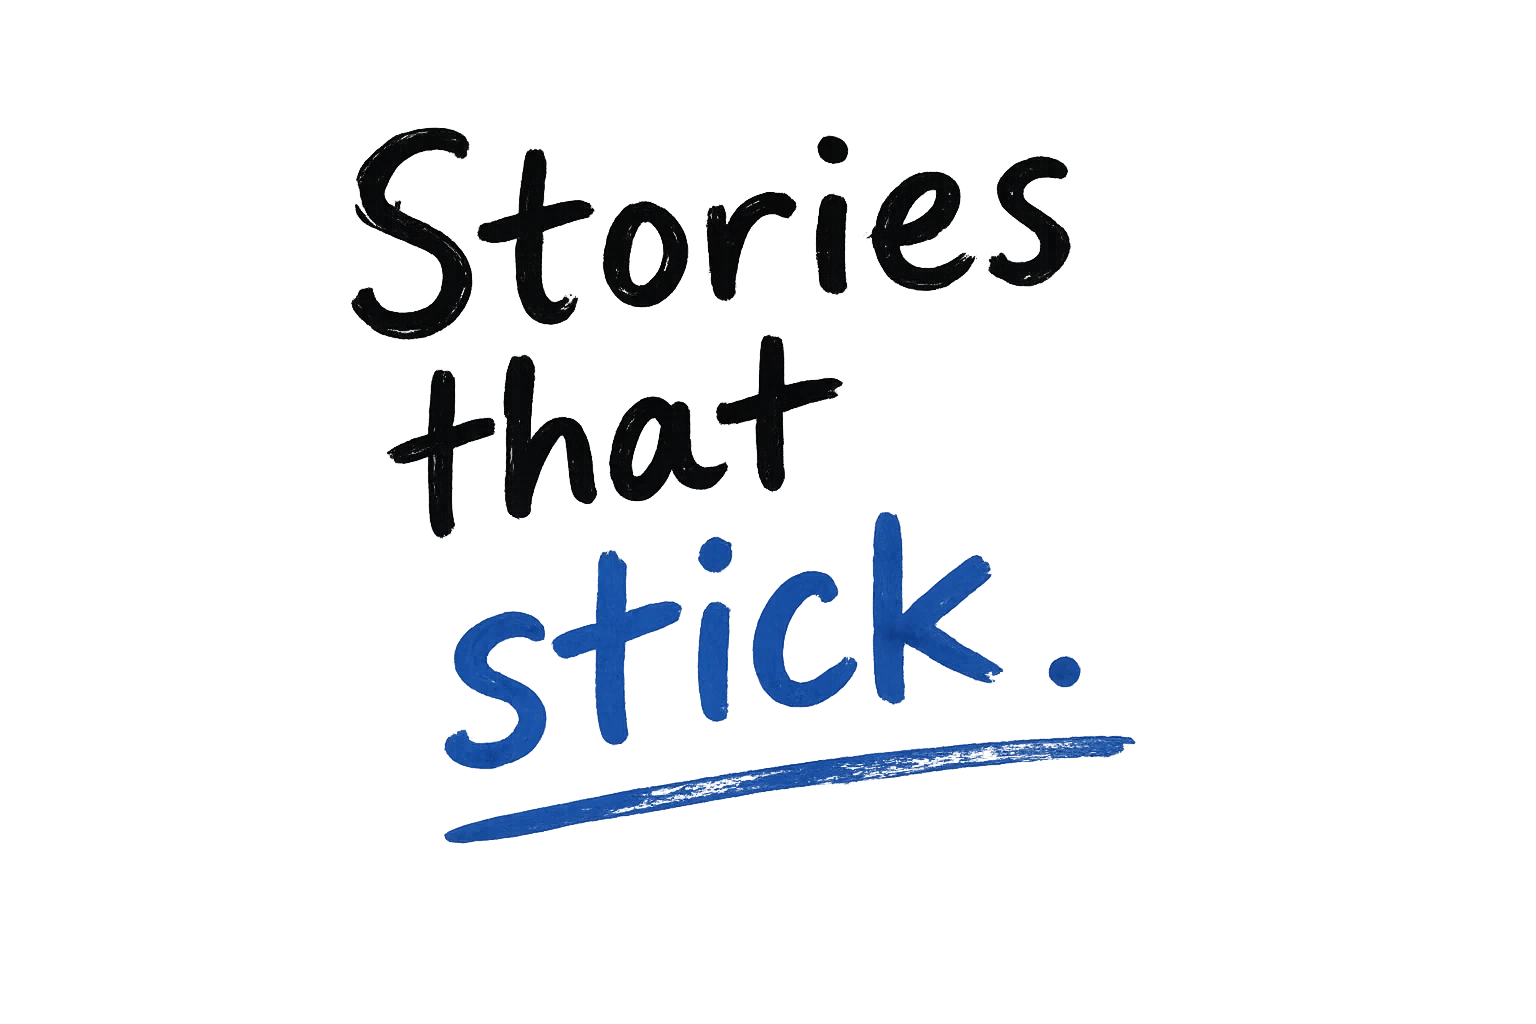
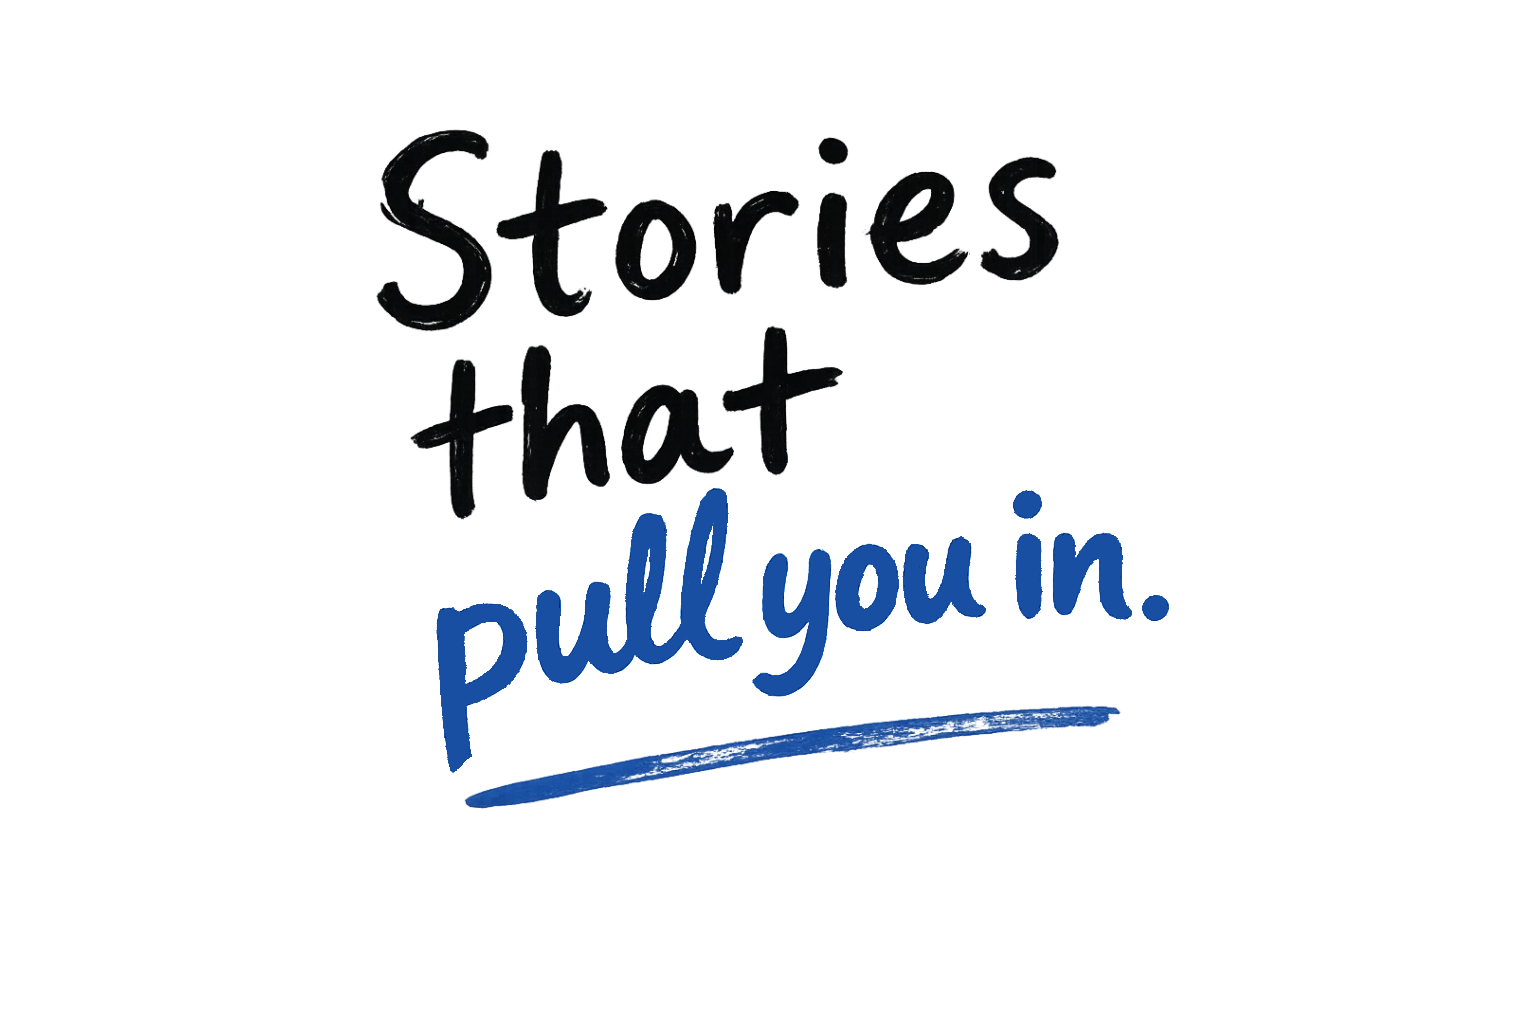
small improvements

Changed region(s): [[0.2188, 0.125, 0.7812, 0.8438], [0.5312, 0.1562, 0.7188, 0.2812]]

diff --git a/styles.css b/styles.css
@@ -18,7 +18,7 @@
 }
 *{box-sizing:border-box}
 html{scroll-behavior:smooth}
-html,body{margin:0;padding:0}
+html,body{margin:0;padding:0;overflow-x:clip}
 body{
   font-family:var(--font-body);
   background-color:var(--paper);
@@ -41,6 +41,7 @@ header{
   padding-bottom:var(--s3);
 }
 .logo{
+  display:block;
   font-family:var(--font-display);
   font-size:2.05rem;
   letter-spacing:.01em;
@@ -96,7 +97,7 @@ a:focus-visible,button:focus-visible{outline:2px solid #d6b252;outline-offset:4p
   transform:translateY(10px);
   transform-origin:left center;
 }
-.lead{max-width:60ch;color:var(--ink);margin-top:var(--s3);margin-left:115px;margin-right:40px;transform:rotate(-2deg);letter-spacing:1px}
+.lead{max-width:60ch;color:var(--ink);margin-top:var(--s3);margin-left:115px;margin-right:40px;transform:rotate(-2deg) translateY(-15px);letter-spacing:1px}
 .options{display:flex;flex-wrap:wrap;gap:25px;justify-content:center;transform:scale(.8)}
 .hero{margin-top:var(--s3)}
 .btn{display:inline-flex;align-items:center;justify-content:center;min-height:42px;padding:0 17px;border-radius:999px;border:1px solid var(--ink);font-size:.74rem;font-weight:600;text-transform:uppercase;letter-spacing:.08em;transition:transform .2s ease,border-color .2s ease,box-shadow .2s ease,color .2s ease,background-color .2s ease}
@@ -468,7 +469,7 @@ footer{margin-top:var(--s6);border-top:1px solid var(--line);padding-top:var(--s
   }
 }
 @media (max-width:700px){
-  .nav-toggle{display:flex}
+  .nav-toggle{display:flex;position:fixed;top:14px;right:22px;z-index:201;background:var(--paper);border-radius:4px;padding:4px}
   header{flex-wrap:wrap;align-items:center}
 
   nav[aria-label="Primary"]{
@@ -481,7 +482,14 @@ footer{margin-top:var(--s6);border-top:1px solid var(--line);padding-top:var(--s
   }
 
   nav[aria-label="Primary"].nav-open{
-  	display:flex
+  	display:flex;
+  	position:fixed;
+  	top:0;left:0;right:0;
+  	background:var(--paper);
+  	border-bottom:1px solid var(--line);
+  	padding:58px 22px 14px;
+  	z-index:200;
+  	box-shadow:0 4px 16px rgba(0,0,0,.08)
   }
 
   nav[aria-label="Primary"] a{

diff --git a/about.html b/about.html
@@ -26,7 +26,7 @@
 <body>
   <div class="wrap">
     <header>
-      <div class="logo">Raea Gragg</div>
+      <a class="logo" href="./index.html">Raea Gragg<small>Author / Illustrator / Artist</small></a>
       <nav aria-label="Primary">
         <a href="./index.html#nav=home" data-hue="0.0">Home</a>
         <a href="./books.html#nav=books" data-hue="0.15">Books</a>
@@ -44,9 +44,9 @@
 
         <div class="split">
           <article class="about-box">
-            <p>Hello, I’m Raea! I’m a multimedia fine artist who loves nothing more than sharing my nature-
-inspired creations. No matter the piece or project I always emphasis the power of storytelling in my work. I’d love to come visit your school or library to discuss all things books, chat about an art commission, or just nerd out over all things creative.</p>
-	    <p>You can follow me on Instagram and Tiktok at: @raeag and @raeagragg</p>
+            <p>Hello, I’m Raea! I’m an author, illustrator, and multimedia fine artist whose work is inspired by the thrill of nature, vivid worldbuilding, and emotionally driven coming-of-age stories.</p>
+            <p>As a reader, I’m drawn to fast-paced, immersive stories—the kind that grab you quickly and don’t let go. That same energy shapes my own work: cinematic, nature-rich, and full of emotional momentum. With a background in botany, animation, and fine art, I’m especially interested in stories where the natural world feels alive and young characters discover what it means to step fully into themselves.</p>
+            <p>At the heart of my work is a celebration of self: the messy, brave, joyful process of growing up and learning to trust your own voice. I’m available for school and library visits, art commissions, creative collaborations, and conversations about books, illustration, and the magic of making things.</p>
 	    <div class="contact-row">
               <a class="link-pill" href="mailto:[email redacted]">Contact Me</a>
               <a class="link-pill" href="https://www.instagram.com/raeag/" target="_blank" rel="noopener">Instagram</a>
@@ -100,7 +100,7 @@ inspired creations. No matter the piece or project I always emphasis the power o
     </main>
 
     <footer>
-      <div>© <span id="year"></span> Raea Gragg</div>
+      <div>© <span id="year"></span> Raea Gragg<br><small style="font-size:.68rem;text-transform:uppercase;letter-spacing:.1em;color:var(--muted)">Author / Illustrator / Artist</small></div>
       <div style="display:flex;align-items:center;gap:12px">
         <a href="./index.html">Back to Home</a>
         <a href="https://www.instagram.com/raeag/" target="_blank" rel="noopener" aria-label="Instagram" style="display:flex;align-items:center"><svg xmlns="http://www.w3.org/2000/svg" width="18" height="18" viewBox="0 0 24 24" fill="none" stroke="currentColor" stroke-width="1.75" stroke-linecap="round" stroke-linejoin="round"><rect x="2" y="2" width="20" height="20" rx="5" ry="5"/><circle cx="12" cy="12" r="4"/><circle cx="17.5" cy="6.5" r="0.75" fill="currentColor" stroke="none"/></svg></a>

diff --git a/index.html b/index.html
@@ -26,7 +26,7 @@
 <body>
   <div class="wrap">
     <header>
-      <div class="logo">Raea Gragg</div>
+      <a class="logo" href="./index.html">Raea Gragg<small>Author / Illustrator / Artist</small></a>
       <nav aria-label="Primary">
         <a class="active" href="./index.html#nav=home" data-hue="0.0">Home</a>
         <a href="./books.html#nav=books" data-hue="0.15">Books</a>
@@ -44,7 +44,7 @@
         <div class="split">
           <div>
             <h1><img src="./assets/optimized/assets/ui/hero-primary-text.png.webp" alt="Raea Gragg" draggable="false" decoding="async" fetchpriority="high" width="1536" height="1024"></h1>
-            <p class="lead">Author and illustrator of graphic novels and stories for reluctant readers, squirmy tweens, and dreamers with big imaginations.</p>
+            <p class="lead">Fast-moving stories for readers finding their place in the world.</p>
             <div class="options">
               <a class="btn primary" href="./books.html">Explore Books</a>
               <a class="btn secondary" href="./about.html#nav=about" data-hue="0.82">About Raea</a>
@@ -104,7 +104,7 @@
     </main>
 
     <footer>
-      <div>© <span id="year"></span> Raea Gragg</div>
+      <div>© <span id="year"></span> Raea Gragg<br><small style="font-size:.68rem;text-transform:uppercase;letter-spacing:.1em;color:var(--muted)">Author / Illustrator / Artist</small></div>
       <div style="display:flex;align-items:center;gap:12px">
         <a href="./about.html#nav=about" data-hue="0.82">About</a>
         <a href="https://www.instagram.com/raeag/" target="_blank" rel="noopener" aria-label="Instagram" style="display:flex;align-items:center"><svg xmlns="http://www.w3.org/2000/svg" width="18" height="18" viewBox="0 0 24 24" fill="none" stroke="currentColor" stroke-width="1.75" stroke-linecap="round" stroke-linejoin="round"><rect x="2" y="2" width="20" height="20" rx="5" ry="5"/><circle cx="12" cy="12" r="4"/><circle cx="17.5" cy="6.5" r="0.75" fill="currentColor" stroke="none"/></svg></a>

diff --git a/art.html b/art.html
@@ -26,7 +26,7 @@
 <body>
   <div class="wrap">
     <header>
-      <div class="logo">Raea Gragg</div>
+      <a class="logo" href="./index.html">Raea Gragg<small>Author / Illustrator / Artist</small></a>
       <nav aria-label="Primary">
         <a href="./index.html#nav=home" data-hue="0.0">Home</a>
         <a href="./books.html#nav=books" data-hue="0.15">Books</a>
@@ -206,7 +206,7 @@
     </main>
 
     <footer>
-      <div>© <span id="year"></span> Raea Gragg</div>
+      <div>© <span id="year"></span> Raea Gragg<br><small style="font-size:.68rem;text-transform:uppercase;letter-spacing:.1em;color:var(--muted)">Author / Illustrator / Artist</small></div>
       <div style="display:flex;align-items:center;gap:12px">
         <a href="./index.html">Back to Home</a>
         <a href="https://www.instagram.com/raeag/" target="_blank" rel="noopener" aria-label="Instagram" style="display:flex;align-items:center"><svg xmlns="http://www.w3.org/2000/svg" width="18" height="18" viewBox="0 0 24 24" fill="none" stroke="currentColor" stroke-width="1.75" stroke-linecap="round" stroke-linejoin="round"><rect x="2" y="2" width="20" height="20" rx="5" ry="5"/><circle cx="12" cy="12" r="4"/><circle cx="17.5" cy="6.5" r="0.75" fill="currentColor" stroke="none"/></svg></a>

diff --git a/books.html b/books.html
@@ -66,7 +66,7 @@
 <body>
   <div class="wrap">
     <header>
-      <div class="logo">Raea Gragg</div>
+      <a class="logo" href="./index.html">Raea Gragg<small>Author / Illustrator / Artist</small></a>
       <nav aria-label="Primary">
         <a href="./index.html#nav=home" data-hue="0.0">Home</a>
         <a class="active" href="./books.html#nav=books" data-hue="0.15">Books</a>
@@ -210,7 +210,7 @@
     </main>
 
     <footer>
-      <div>© <span id="year"></span> Raea Gragg</div>
+      <div>© <span id="year"></span> Raea Gragg<br><small style="font-size:.68rem;text-transform:uppercase;letter-spacing:.1em;color:var(--muted)">Author / Illustrator / Artist</small></div>
       <div style="display:flex;align-items:center;gap:12px">
         <a href="./index.html">Back to Home</a>
         <a href="https://www.instagram.com/raeag/" target="_blank" rel="noopener" aria-label="Instagram" style="display:flex;align-items:center"><svg xmlns="http://www.w3.org/2000/svg" width="18" height="18" viewBox="0 0 24 24" fill="none" stroke="currentColor" stroke-width="1.75" stroke-linecap="round" stroke-linejoin="round"><rect x="2" y="2" width="20" height="20" rx="5" ry="5"/><circle cx="12" cy="12" r="4"/><circle cx="17.5" cy="6.5" r="0.75" fill="currentColor" stroke="none"/></svg></a>

diff --git a/canvas.html b/canvas.html
@@ -58,7 +58,7 @@
 
   <div class="wrap">
     <header>
-      <div class="logo">Raea Gragg</div>
+      <a class="logo" href="./index.html">Raea Gragg<small>Author / Illustrator / Artist</small></a>
       <nav aria-label="Primary">
         <a href="./index.html">Home</a>
         <a href="./books.html">Books</a>
@@ -108,7 +108,7 @@
     </main>
 
     <footer>
-      <div>© <span id="year"></span> Raea Gragg</div>
+      <div>© <span id="year"></span> Raea Gragg<br><small style="font-size:.68rem;text-transform:uppercase;letter-spacing:.1em;color:var(--muted)">Author / Illustrator / Artist</small></div>
       <div><a href="./about.html">About</a></div>
     </footer>
   </div>

diff --git a/cicada-detail.html b/cicada-detail.html
@@ -132,7 +132,7 @@
 
   <div class="wrap">
     <header>
-      <div class="logo">Raea Gragg</div>
+      <a class="logo" href="./index.html">Raea Gragg<small>Author / Illustrator / Artist</small></a>
       <nav aria-label="Primary">
         <a href="./index.html#nav=home" data-hue="0.0">Home</a>
         <a href="./books.html#nav=books" data-hue="0.15">Books</a>
@@ -155,7 +155,7 @@
     </main>
 
     <footer>
-      <div>© <span id="year"></span> Raea Gragg</div>
+      <div>© <span id="year"></span> Raea Gragg<br><small style="font-size:.68rem;text-transform:uppercase;letter-spacing:.1em;color:var(--muted)">Author / Illustrator / Artist</small></div>
       <div style="display:flex;align-items:center;gap:12px">
         <a href="https://www.instagram.com/raeag/" target="_blank" rel="noopener" aria-label="Instagram" style="display:flex;align-items:center"><svg xmlns="http://www.w3.org/2000/svg" width="18" height="18" viewBox="0 0 24 24" fill="none" stroke="currentColor" stroke-width="1.75" stroke-linecap="round" stroke-linejoin="round"><rect x="2" y="2" width="20" height="20" rx="5" ry="5"/><circle cx="12" cy="12" r="4"/><circle cx="17.5" cy="6.5" r="0.75" fill="currentColor" stroke="none"/></svg></a>
         <a href="https://www.tiktok.com/@raeagragg" target="_blank" rel="noopener" aria-label="TikTok" style="display:flex;align-items:center"><svg xmlns="http://www.w3.org/2000/svg" width="16" height="16" viewBox="0 0 24 24" fill="currentColor"><path d="M19.59 6.69a4.83 4.83 0 0 1-3.77-4.25V2h-3.45v13.67a2.89 2.89 0 0 1-2.88 2.5 2.89 2.89 0 0 1-2.89-2.89 2.89 2.89 0 0 1 2.89-2.89c.28 0 .54.04.79.1V9.01a6.33 6.33 0 0 0-.79-.05 6.34 6.34 0 0 0-6.34 6.34 6.34 6.34 0 0 0 6.34 6.34 6.34 6.34 0 0 0 6.33-6.34V8.69a8.17 8.17 0 0 0 4.78 1.52V6.76a4.85 4.85 0 0 1-1.01-.07z"/></svg></a>

diff --git a/experiments.html b/experiments.html
@@ -106,7 +106,7 @@
 
   <div class="wrap">
     <header>
-      <div class="logo">Raea Gragg</div>
+      <a class="logo" href="./index.html">Raea Gragg<small>Author / Illustrator / Artist</small></a>
       <nav id="main-nav" aria-label="Primary">
         <a href="./index.html#nav=home" data-hue="0.0">Home</a>
         <a href="./books.html#nav=books" data-hue="0.15">Books</a>
@@ -196,7 +196,7 @@
     </main>
 
     <footer>
-      <div>© <span id="year"></span> Raea Gragg</div>
+      <div>© <span id="year"></span> Raea Gragg<br><small style="font-size:.68rem;text-transform:uppercase;letter-spacing:.1em;color:var(--muted)">Author / Illustrator / Artist</small></div>
       <div><a href="./about.html">About</a></div>
     </footer>
   </div>

diff --git a/mup-1-2.html b/mup-1-2.html
@@ -26,7 +26,7 @@
 <body>
   <div class="wrap">
     <header>
-      <div class="logo">Raea Gragg</div>
+      <a class="logo" href="./index.html">Raea Gragg<small>Author / Illustrator / Artist</small></a>
       <nav aria-label="Primary">
         <a href="./index.html#nav=home" data-hue="0.0">Home</a>
         <a class="active" href="./books.html#nav=books" data-hue="0.15">Books</a>
@@ -156,7 +156,7 @@
     </main>
 
     <footer>
-      <div>© <span id="year"></span> Raea Gragg</div>
+      <div>© <span id="year"></span> Raea Gragg<br><small style="font-size:.68rem;text-transform:uppercase;letter-spacing:.1em;color:var(--muted)">Author / Illustrator / Artist</small></div>
       <div><a href="./books.html">Back to Books</a></div>
     </footer>
   </div>

diff --git a/projects.html b/projects.html
@@ -26,7 +26,7 @@
 <body>
   <div class="wrap">
     <header>
-      <div class="logo">Raea Gragg</div>
+      <a class="logo" href="./index.html">Raea Gragg<small>Author / Illustrator / Artist</small></a>
       <nav aria-label="Primary">
         <a href="./index.html#nav=home" data-hue="0.0">Home</a>
         <a href="./books.html#nav=books" data-hue="0.15">Books</a>
@@ -89,7 +89,7 @@
     </div>
 
     <footer>
-      <div>© <span id="year"></span> Raea Gragg</div>
+      <div>© <span id="year"></span> Raea Gragg<br><small style="font-size:.68rem;text-transform:uppercase;letter-spacing:.1em;color:var(--muted)">Author / Illustrator / Artist</small></div>
       <div style="display:flex;align-items:center;gap:12px">
         <a href="./index.html">Back to Home</a>
         <a href="https://www.instagram.com/raeag/" target="_blank" rel="noopener" aria-label="Instagram" style="display:flex;align-items:center"><svg xmlns="http://www.w3.org/2000/svg" width="18" height="18" viewBox="0 0 24 24" fill="none" stroke="currentColor" stroke-width="1.75" stroke-linecap="round" stroke-linejoin="round"><rect x="2" y="2" width="20" height="20" rx="5" ry="5"/><circle cx="12" cy="12" r="4"/><circle cx="17.5" cy="6.5" r="0.75" fill="currentColor" stroke="none"/></svg></a>

diff --git a/pumpkin-detail.html b/pumpkin-detail.html
@@ -119,7 +119,7 @@
 
   <div class="wrap">
     <header>
-      <div class="logo">Raea Gragg</div>
+      <a class="logo" href="./index.html">Raea Gragg<small>Author / Illustrator / Artist</small></a>
       <nav aria-label="Primary">
         <a href="./index.html#nav=home" data-hue="0.0">Home</a>
         <a href="./books.html#nav=books" data-hue="0.15">Books</a>
@@ -142,7 +142,7 @@
     </main>
 
     <footer>
-      <div>© <span id="year"></span> Raea Gragg</div>
+      <div>© <span id="year"></span> Raea Gragg<br><small style="font-size:.68rem;text-transform:uppercase;letter-spacing:.1em;color:var(--muted)">Author / Illustrator / Artist</small></div>
       <div style="display:flex;align-items:center;gap:12px">
         <a href="https://www.instagram.com/raeag/" target="_blank" rel="noopener" aria-label="Instagram" style="display:flex;align-items:center"><svg xmlns="http://www.w3.org/2000/svg" width="18" height="18" viewBox="0 0 24 24" fill="none" stroke="currentColor" stroke-width="1.75" stroke-linecap="round" stroke-linejoin="round"><rect x="2" y="2" width="20" height="20" rx="5" ry="5"/><circle cx="12" cy="12" r="4"/><circle cx="17.5" cy="6.5" r="0.75" fill="currentColor" stroke="none"/></svg></a>
         <a href="https://www.tiktok.com/@raeagragg" target="_blank" rel="noopener" aria-label="TikTok" style="display:flex;align-items:center"><svg xmlns="http://www.w3.org/2000/svg" width="16" height="16" viewBox="0 0 24 24" fill="currentColor"><path d="M19.59 6.69a4.83 4.83 0 0 1-3.77-4.25V2h-3.45v13.67a2.89 2.89 0 0 1-2.88 2.5 2.89 2.89 0 0 1-2.89-2.89 2.89 2.89 0 0 1 2.89-2.89c.28 0 .54.04.79.1V9.01a6.33 6.33 0 0 0-.79-.05 6.34 6.34 0 0 0-6.34 6.34 6.34 6.34 0 0 0 6.34 6.34 6.34 6.34 0 0 0 6.33-6.34V8.69a8.17 8.17 0 0 0 4.78 1.52V6.76a4.85 4.85 0 0 1-1.01-.07z"/></svg></a>

diff --git a/fan-art.html b/fan-art.html
@@ -339,7 +339,7 @@
     </main>
 
     <footer>
-      <div>© <span id="year"></span> Raea Gragg</div>
+      <div>© <span id="year"></span> Raea Gragg<br><small style="font-size:.68rem;text-transform:uppercase;letter-spacing:.1em;color:var(--muted)">Author / Illustrator / Artist</small></div>
       <div><a href="./index.html">Back to Home</a></div>
     </footer>
   </div>